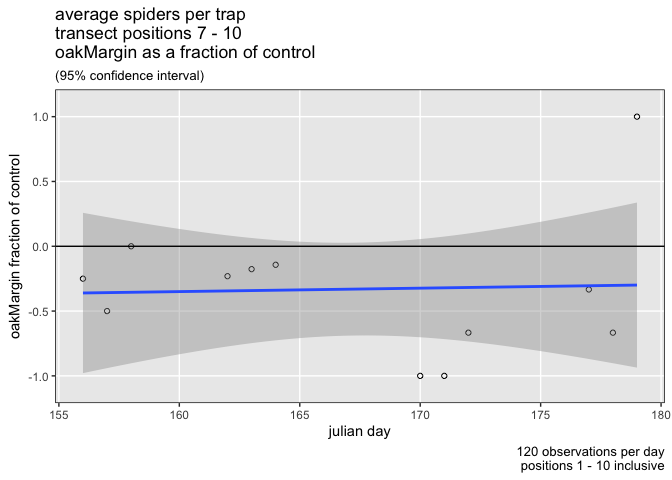
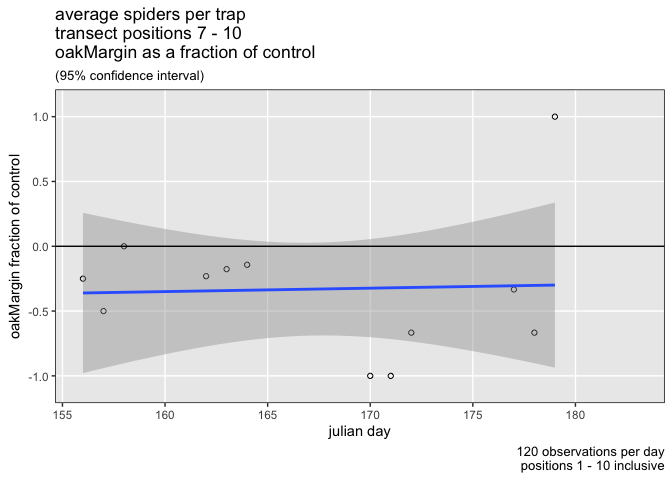
corrected dplyr filer in compareTransect()

diff --git a/ampelos.md b/ampelos.md
@@ -12,17 +12,29 @@ bugs.df <- read.csv(source.url, header=TRUE, row.names=NULL)
 g <- compareTransect()
 ```
 
+    ## Warning: Removed 5 rows containing non-finite values (stat_smooth).
+
+    ## Warning: Removed 3 rows containing missing values (geom_point).
+
 ![](ampelos_files/figure-markdown_github/unnamed-chunk-2-1.png)
 
-    ## Warning: Removed 2 rows containing non-finite values (stat_smooth).
-
-    ## Warning: Removed 2 rows containing missing values (geom_point).
+    ## Warning: Removed 1 rows containing non-finite values (stat_smooth).
 
 ![](ampelos_files/figure-markdown_github/unnamed-chunk-2-2.png)
 
-    ## Warning: Removed 2 rows containing non-finite values (stat_smooth).
+    ## Warning: Removed 1 rows containing non-finite values (stat_smooth).
 
-    ## Warning: Removed 2 rows containing missing values (geom_point).
+    ## Warning: Removed 1 rows containing missing values (geom_point).
+
+    ## Warning: Removed 5 rows containing non-finite values (stat_smooth).
+
+    ## Warning: Removed 3 rows containing missing values (geom_point).
+
+    ## Warning: Removed 1 rows containing non-finite values (stat_smooth).
+
+    ## Warning: Removed 1 rows containing non-finite values (stat_smooth).
+
+    ## Warning: Removed 1 rows containing missing values (geom_point).
 
 ![](ampelos_files/figure-markdown_github/unnamed-chunk-2-3.png)
 
@@ -46,7 +58,7 @@ plotRidges(data=bugs.df, combined=FALSE, bugs="Thomisidae..crab.spider.", specie
     ## Scale for 'x' is already present. Adding another scale for 'x', which
     ## will replace the existing scale.
 
-    ## Picking joint bandwidth of 29.1
+    ## Picking joint bandwidth of 29
 
 ![](ampelos_files/figure-markdown_github/unnamed-chunk-2-6.png)
 
@@ -58,7 +70,7 @@ plotRidges(data=new.df, combined=TRUE, bugs="newColumn", speciesText="Crab Spide
     ## Scale for 'x' is already present. Adding another scale for 'x', which
     ## will replace the existing scale.
 
-    ## Picking joint bandwidth of 19.6
+    ## Picking joint bandwidth of 19.3
 
 ![](ampelos_files/figure-markdown_github/unnamed-chunk-2-7.png)
 
@@ -69,7 +81,7 @@ plotRidges(data=new.df, combined=TRUE, bugs="newColumn", speciesText="Crab Spide
     ## Scale for 'x' is already present. Adding another scale for 'x', which
     ## will replace the existing scale.
 
-    ## Picking joint bandwidth of 19.9
+    ## Picking joint bandwidth of 19.7
 
 ![](ampelos_files/figure-markdown_github/unnamed-chunk-2-8.png)
 
@@ -92,10 +104,10 @@ percentage
 Diptera..Agromyzidae..leafminer..
 </td>
 <td style="text-align:right;">
-638
+679
 </td>
 <td style="text-align:right;">
-26.52
+25.75
 </td>
 </tr>
 <tr>
@@ -103,10 +115,10 @@ Diptera..Agromyzidae..leafminer..
 Braconid.wasp
 </td>
 <td style="text-align:right;">
-24
+26
 </td>
 <td style="text-align:right;">
-1.00
+0.99
 </td>
 </tr>
 <tr>
@@ -114,10 +126,10 @@ Braconid.wasp
 Halictus.sp....3.part..native.bee.
 </td>
 <td style="text-align:right;">
-159
+172
 </td>
 <td style="text-align:right;">
-6.61
+6.52
 </td>
 </tr>
 <tr>
@@ -125,10 +137,10 @@ Halictus.sp....3.part..native.bee.
 pencilBug
 </td>
 <td style="text-align:right;">
-40
+41
 </td>
 <td style="text-align:right;">
-1.66
+1.55
 </td>
 </tr>
 <tr>
@@ -136,10 +148,10 @@ pencilBug
 Agapostemon.sp....green..native.bee.
 </td>
 <td style="text-align:right;">
-26
+28
 </td>
 <td style="text-align:right;">
-1.08
+1.06
 </td>
 </tr>
 <tr>
@@ -150,7 +162,7 @@ Osmia.sp...native.bee.
 58
 </td>
 <td style="text-align:right;">
-2.41
+2.20
 </td>
 </tr>
 <tr>
@@ -158,10 +170,10 @@ Osmia.sp...native.bee.
 Honey.Bee
 </td>
 <td style="text-align:right;">
-248
+286
 </td>
 <td style="text-align:right;">
-10.31
+10.85
 </td>
 </tr>
 <tr>
@@ -169,10 +181,10 @@ Honey.Bee
 Bombus.californicus..bumble.
 </td>
 <td style="text-align:right;">
-171
+184
 </td>
 <td style="text-align:right;">
-7.11
+6.98
 </td>
 </tr>
 <tr>
@@ -180,10 +192,10 @@ Bombus.californicus..bumble.
 Thomisidae..crab.spider.
 </td>
 <td style="text-align:right;">
-465
+485
 </td>
 <td style="text-align:right;">
-19.33
+18.39
 </td>
 </tr>
 <tr>
@@ -191,10 +203,10 @@ Thomisidae..crab.spider.
 spider.other
 </td>
 <td style="text-align:right;">
-37
+47
 </td>
 <td style="text-align:right;">
-1.54
+1.78
 </td>
 </tr>
 <tr>
@@ -205,7 +217,7 @@ ladyBug
 15
 </td>
 <td style="text-align:right;">
-0.62
+0.57
 </td>
 </tr>
 <tr>
@@ -216,7 +228,7 @@ Lygus.hesperus..western.tarnished.plant.bug.
 26
 </td>
 <td style="text-align:right;">
-1.08
+0.99
 </td>
 </tr>
 <tr>
@@ -224,10 +236,10 @@ Lygus.hesperus..western.tarnished.plant.bug.
 pentamonidae...stinkBug.
 </td>
 <td style="text-align:right;">
-9
+10
 </td>
 <td style="text-align:right;">
-0.37
+0.38
 </td>
 </tr>
 <tr>
@@ -235,10 +247,10 @@ pentamonidae...stinkBug.
 other
 </td>
 <td style="text-align:right;">
-440
+526
 </td>
 <td style="text-align:right;">
-18.29
+19.95
 </td>
 </tr>
 <tr>
@@ -249,7 +261,7 @@ checkerspot.butterfly
 25
 </td>
 <td style="text-align:right;">
-1.04
+0.95
 </td>
 </tr>
 <tr>
@@ -257,10 +269,10 @@ checkerspot.butterfly
 Pyralidae..Snout.Moth.
 </td>
 <td style="text-align:right;">
-13
+15
 </td>
 <td style="text-align:right;">
-0.54
+0.57
 </td>
 </tr>
 <tr>
@@ -268,10 +280,10 @@ Pyralidae..Snout.Moth.
 Diabrotica.undecimpunctata..Cucumber.Beetle.
 </td>
 <td style="text-align:right;">
-9
+10
 </td>
 <td style="text-align:right;">
-0.37
+0.38
 </td>
 </tr>
 <tr>
@@ -279,10 +291,10 @@ Diabrotica.undecimpunctata..Cucumber.Beetle.
 Orius..pirate.bug.
 </td>
 <td style="text-align:right;">
-3
+4
 </td>
 <td style="text-align:right;">
-0.12
+0.15
 </td>
 </tr>
 </tbody>
